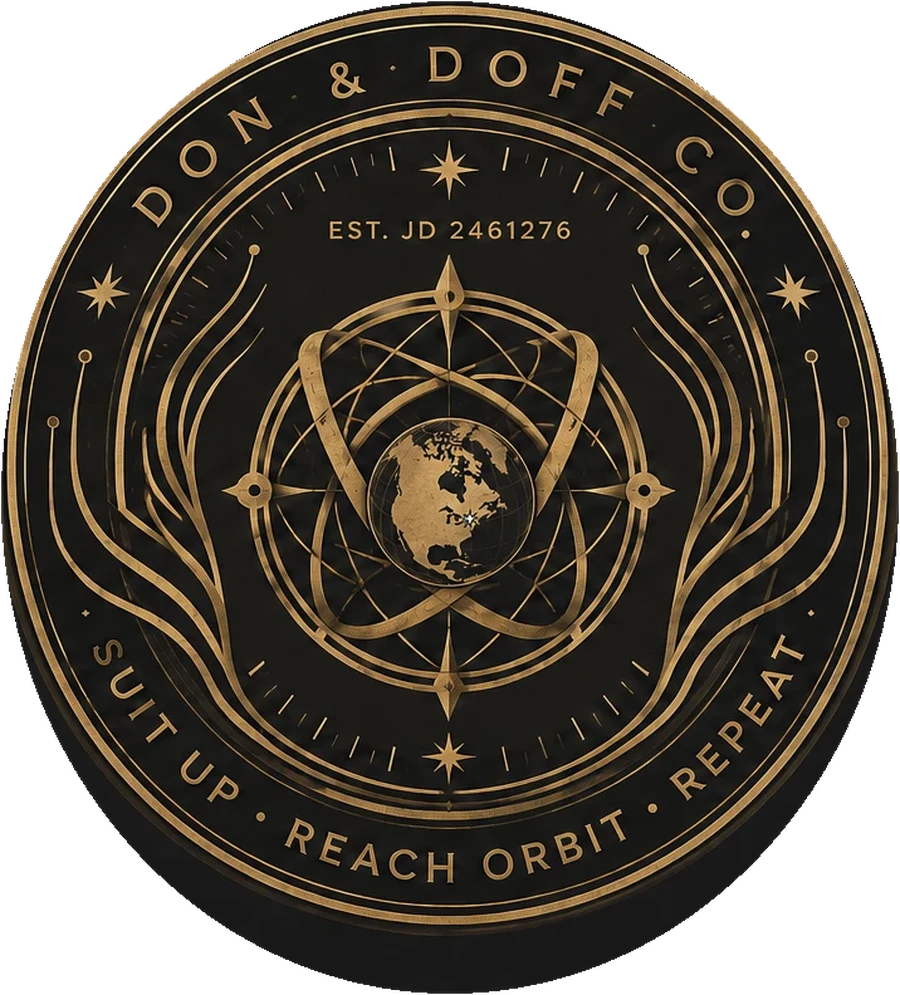
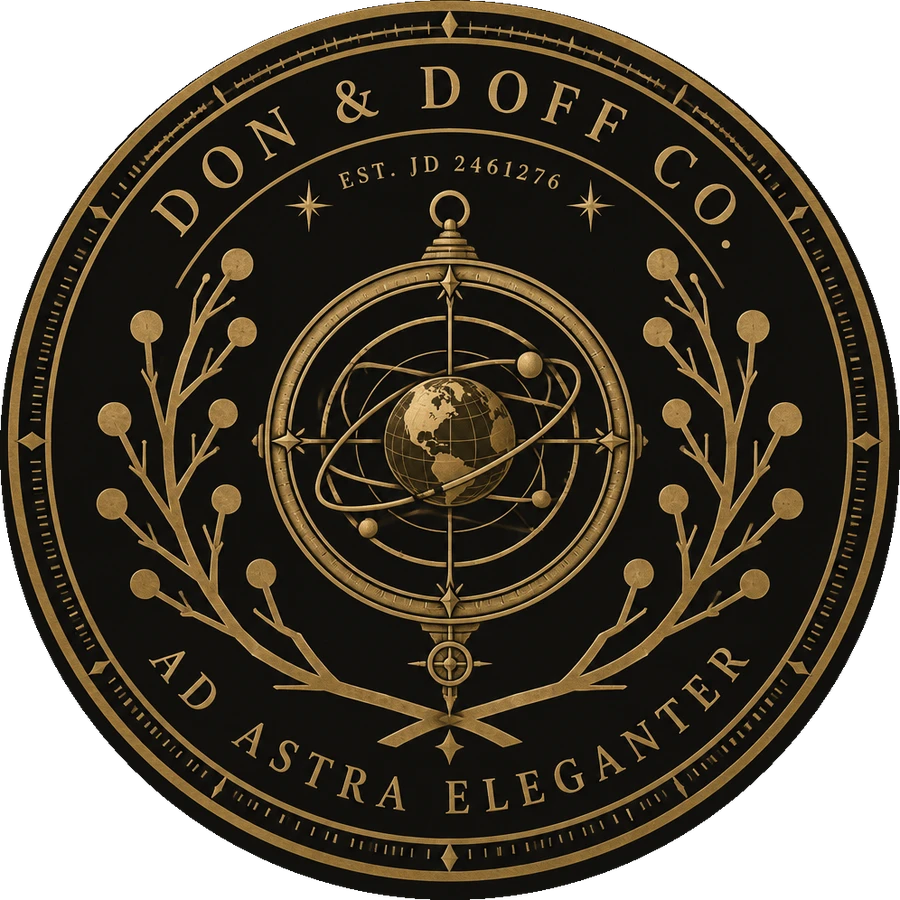
Add generated crest, hero scene and imagery; new crest with Ad astra eleganter
Claude-Session: https://claude.ai/code/session_01EZWqeGF6mEX8PaVaif6TWU

diff --git a/donanddoff/index.html b/donanddoff/index.html
@@ -22,7 +22,7 @@
 </div></header>
 <main>
 
-<section class="hero"><div class="wrap">
+<section class="hero scene"><div class="bg" role="img" aria-label="An old outfitters' hall at night: a pressure-suit jacket on a brass stand, a helmet, an astrolabe and a moon in the window"></div><div class="wrap">
   <img class="crest" src="images/crest-heritage.webp" alt="Don &amp; Doff Co. crest">
   <p class="stamp tag" style="margin-bottom:10px">Ad astra <b>eleganter</b></p><p class="mono" style="margin-bottom:34px">To the stars, with elegance</p>
   <div class="cta"><a class="btn" href="product.html">Reserve the flagship</a><a class="btn ghost" href="about.html">The name</a></div>
@@ -64,13 +64,15 @@
   </div>
 </div></section>
 
+<div class="band" style="background-image:url(images/doff.webp)" role="img" aria-label="An empty suit and helmet resting on a bench beside a lantern, with Earth in the window"><div class="wrap"><p class="mono">Doff</p><p class="stamp" style="color:var(--bone);font-size:clamp(1rem,2.4vw,1.5rem);letter-spacing:.22em;margin-top:6px">Take it off. Set it down. Return.</p></div></div>
+
 <section><div class="wrap">
   <div class="center"><p class="mono">Field notes</p><h2 style="margin-top:8px">From the archive</h2></div>
   <div style="height:40px"></div>
   <div class="strip">
     <figure class="plate"><img src="images/pl-model.webp" alt="Model in the black and white zip hoodie with black joggers" loading="lazy"><figcaption><span>I</span><span>Worn</span></figcaption></figure>
     <figure class="plate"><img src="images/pl-back.webp" alt="Back of the hoodie with a white chevron across the shoulders" loading="lazy"><figcaption><span>II</span><span>Aft</span></figcaption></figure>
-    <figure class="plate"><img src="images/suit.webp" alt="Black and white pressure suit before a rocket and moon" loading="lazy"><figcaption><span>III</span><span>Suit</span></figcaption></figure>
+    <figure class="plate"><img src="images/patch.webp" alt="Embroidered brass astrolabe patch on black fabric beside a chrome zip and a white chevron panel" loading="lazy"><figcaption><span>III</span><span>Patch</span></figcaption></figure>
     <figure class="plate"><img src="images/hoodie-orbit.webp" alt="Black jacket glowing against a dark sky with two moons and a shuttle" loading="lazy"><figcaption><span>IV</span><span>Departure</span></figcaption></figure>
   </div>
   <p class="center" style="margin-top:44px">Follow the mission log <a data-bind="ig" href="https://instagram.com/donanddoffco" rel="noopener">@donanddoffco</a></p>

diff --git a/donanddoff/styles.css b/donanddoff/styles.css
@@ -142,3 +142,16 @@ footer .fine{font-size:.9rem;color:var(--bone-dim);max-width:40em;margin:0 auto}
   nav{gap:14px}
 }
 @media (prefers-reduced-motion:reduce){*{transition:none!important;scroll-behavior:auto!important}}
+
+/* hero scene */
+.hero.scene{position:relative;overflow:hidden;isolation:isolate;padding:clamp(48px,8vw,104px) 0 clamp(64px,9vw,112px)}
+.hero.scene .bg{position:absolute;inset:-4%;z-index:-2;background:url(images/hall.webp) center/cover;animation:drift 38s ease-in-out infinite alternate;transform-origin:62% 45%}
+.hero.scene::after{content:"";position:absolute;inset:0;z-index:-1;background:radial-gradient(ellipse at 50% 42%,rgba(27,26,23,.55) 0,rgba(27,26,23,.9) 62%,var(--ink) 100%)}
+@keyframes drift{from{transform:scale(1) translate3d(0,0,0)}to{transform:scale(1.12) translate3d(-1.5%,-1%,0)}}
+@media (prefers-reduced-motion:reduce){.hero.scene .bg{animation:none}}
+.hero .crest{width:min(70vw,380px)}
+/* band */
+.band{position:relative;min-height:clamp(260px,42vw,480px);display:flex;align-items:flex-end;border-block:1px solid var(--brass-3);background:var(--ink-3) center/cover no-repeat}
+.band::after{content:"";position:absolute;inset:0;background:linear-gradient(180deg,rgba(18,17,15,.1),rgba(18,17,15,.85))}
+.band .wrap{position:relative;z-index:1;padding-block:32px;width:100%}
+.band p{max-width:30em}

diff --git a/donanddoff/about.html b/donanddoff/about.html
@@ -31,6 +31,7 @@
 <div class="era"><p class="mono">Mid-1960s · Gemini</p><h2>Donning enters the vocabulary</h2><p>The term appears in NASA's technical language during the Gemini program. A suit is not worn. It is donned.</p></div><div class="era"><p class="mono">Apollo</p><h2>Drilled into procedure</h2><p>Apollo made it routine. Donning and doffing became steps with order, checks and a crew to confirm them.</p></div><div class="era"><p class="mono">Today · NASA standard</p><h2>Safety-critical</h2><p>Donning and doffing is still official NASA vocabulary. It is treated as a safety-critical task.</p></div>
   </div>
 </div></section>
+<div class="band" style="background-image:url(images/doff.webp)" role="img" aria-label="An empty suit and helmet resting on a bench beside a lantern, with Earth in the window"><div class="wrap"><p class="mono">Doffing</p></div></div>
 <section style="background:var(--ink-3);border-block:1px solid var(--brass-3)"><div class="wrap">
   <p class="pull">We outfit the bookends.<br><em>Ad astra</em> eleganter.</p>
   <p class="lede center" style="margin-top:36px">Don &amp; Doff Co. is made in the manner of an old outfitter's guild: spare, ordered, built to be worn on departure and return.</p>
